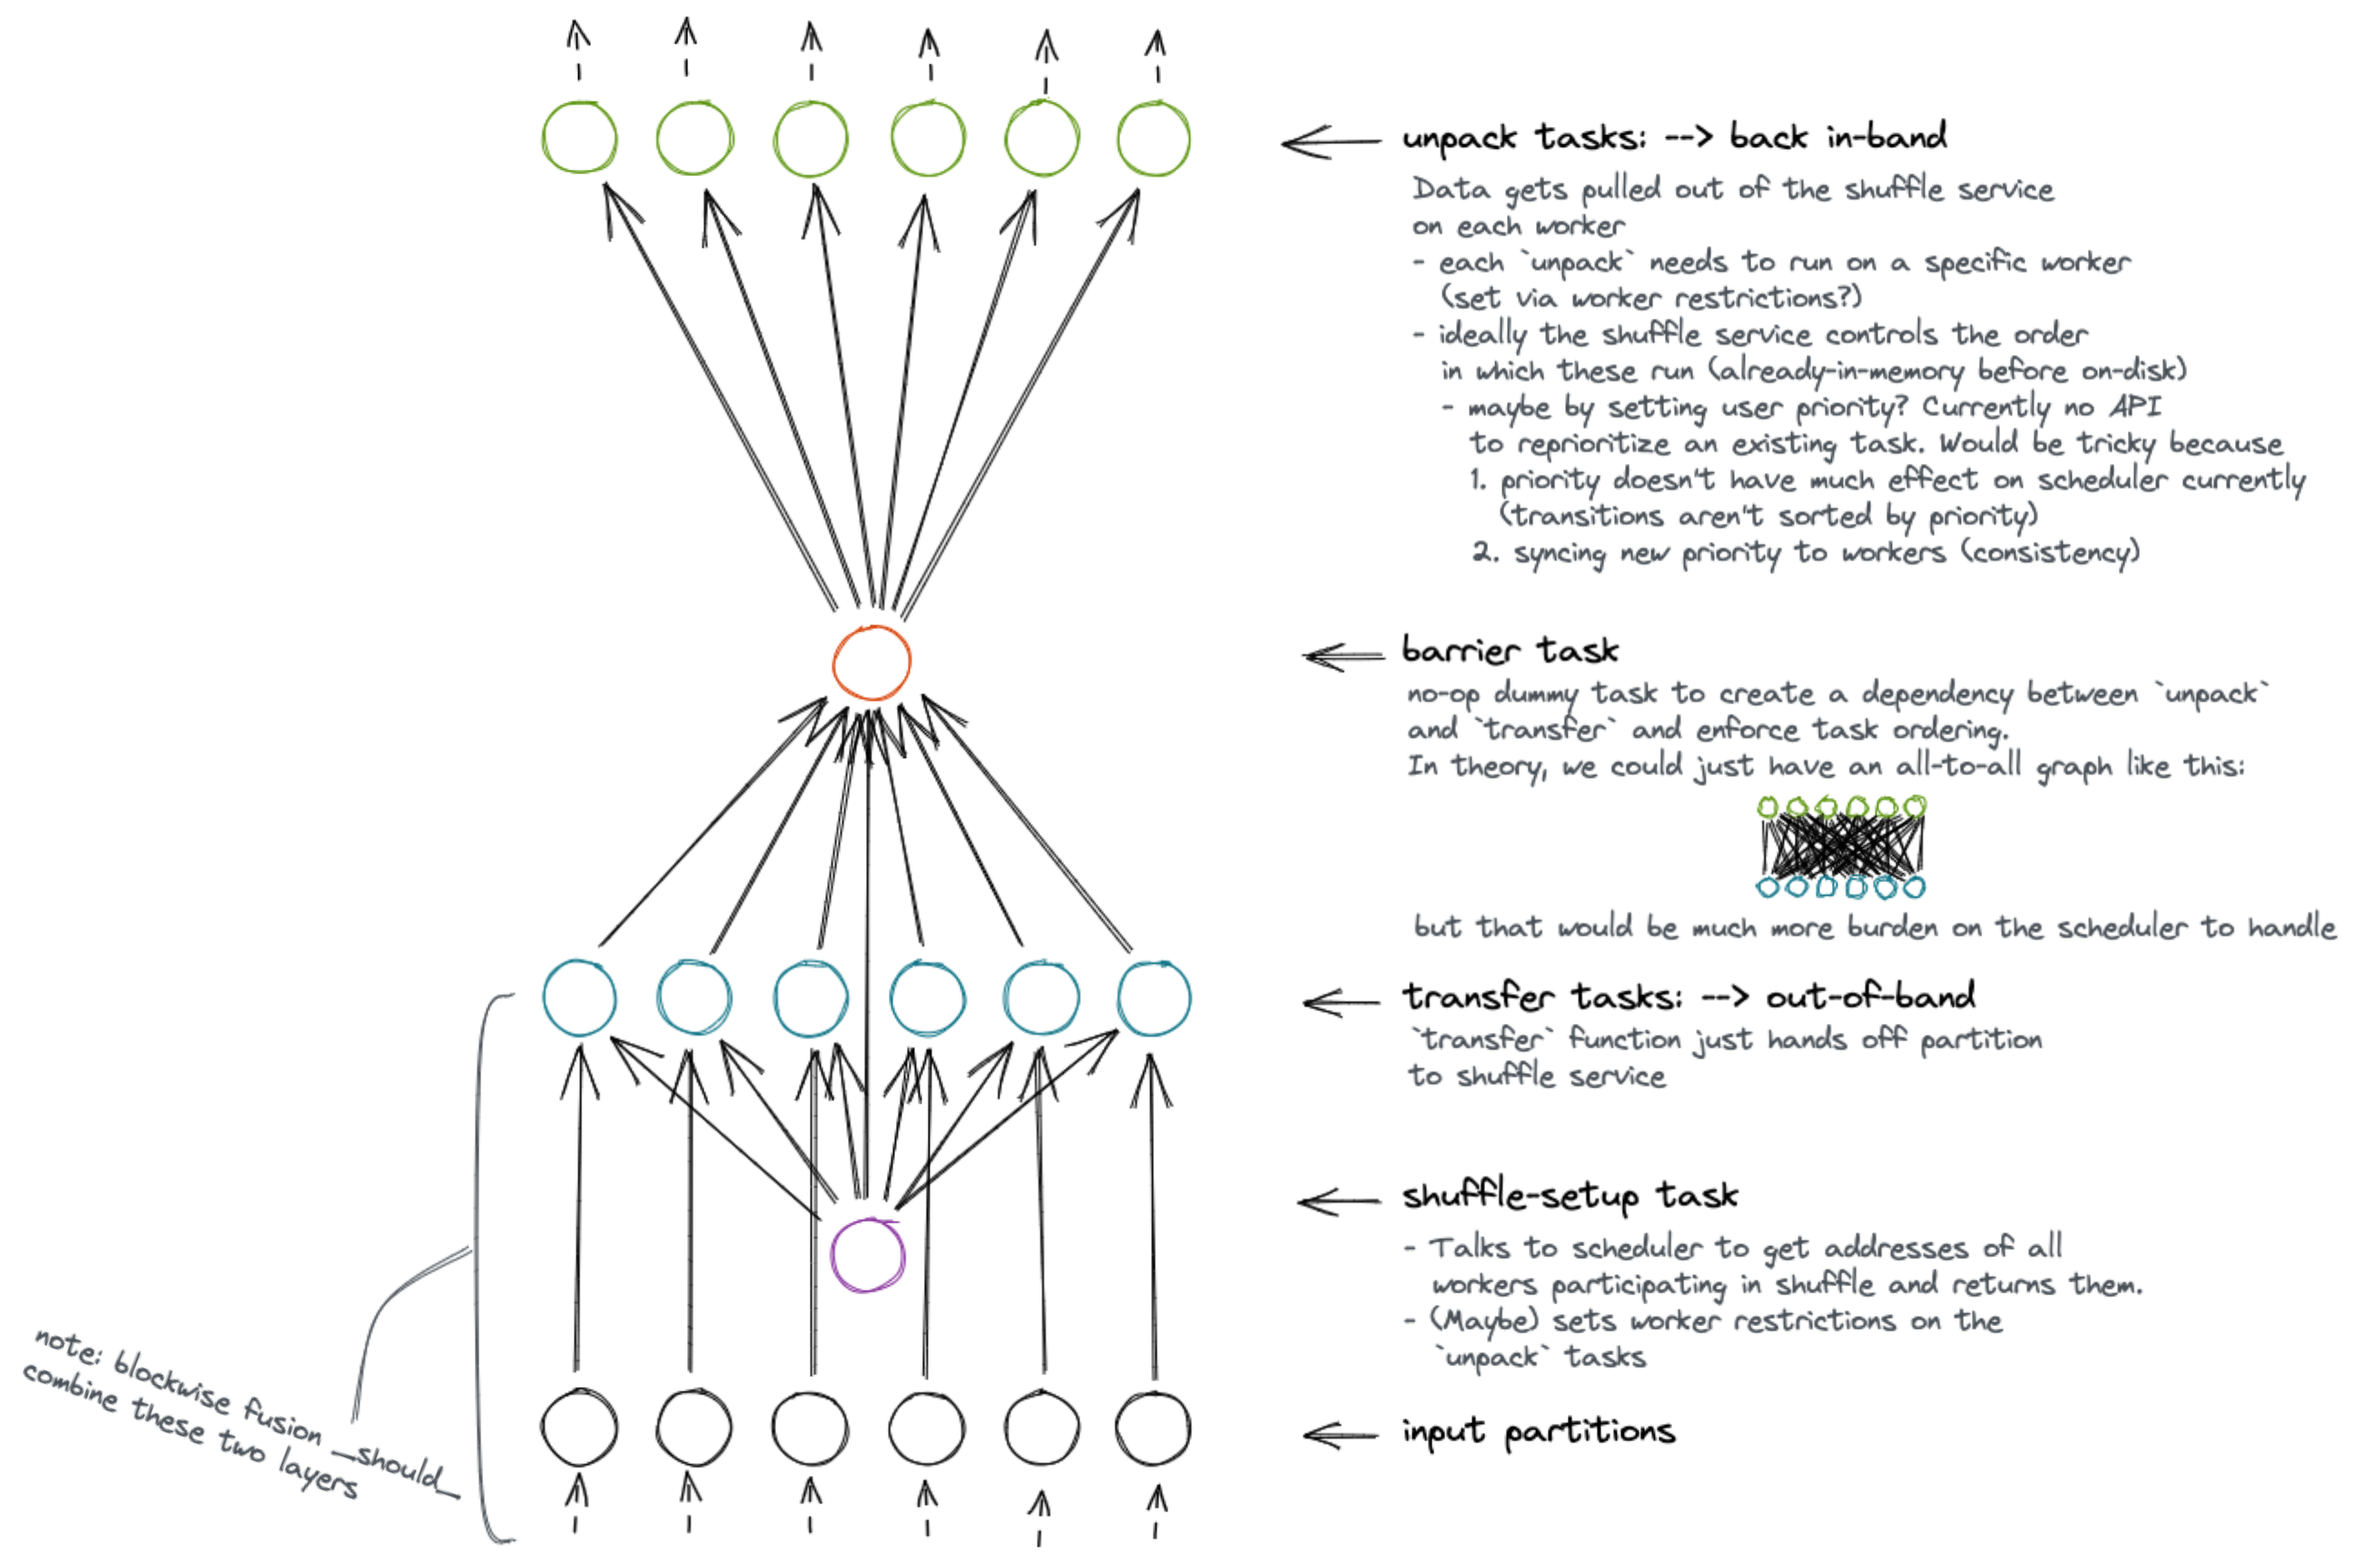
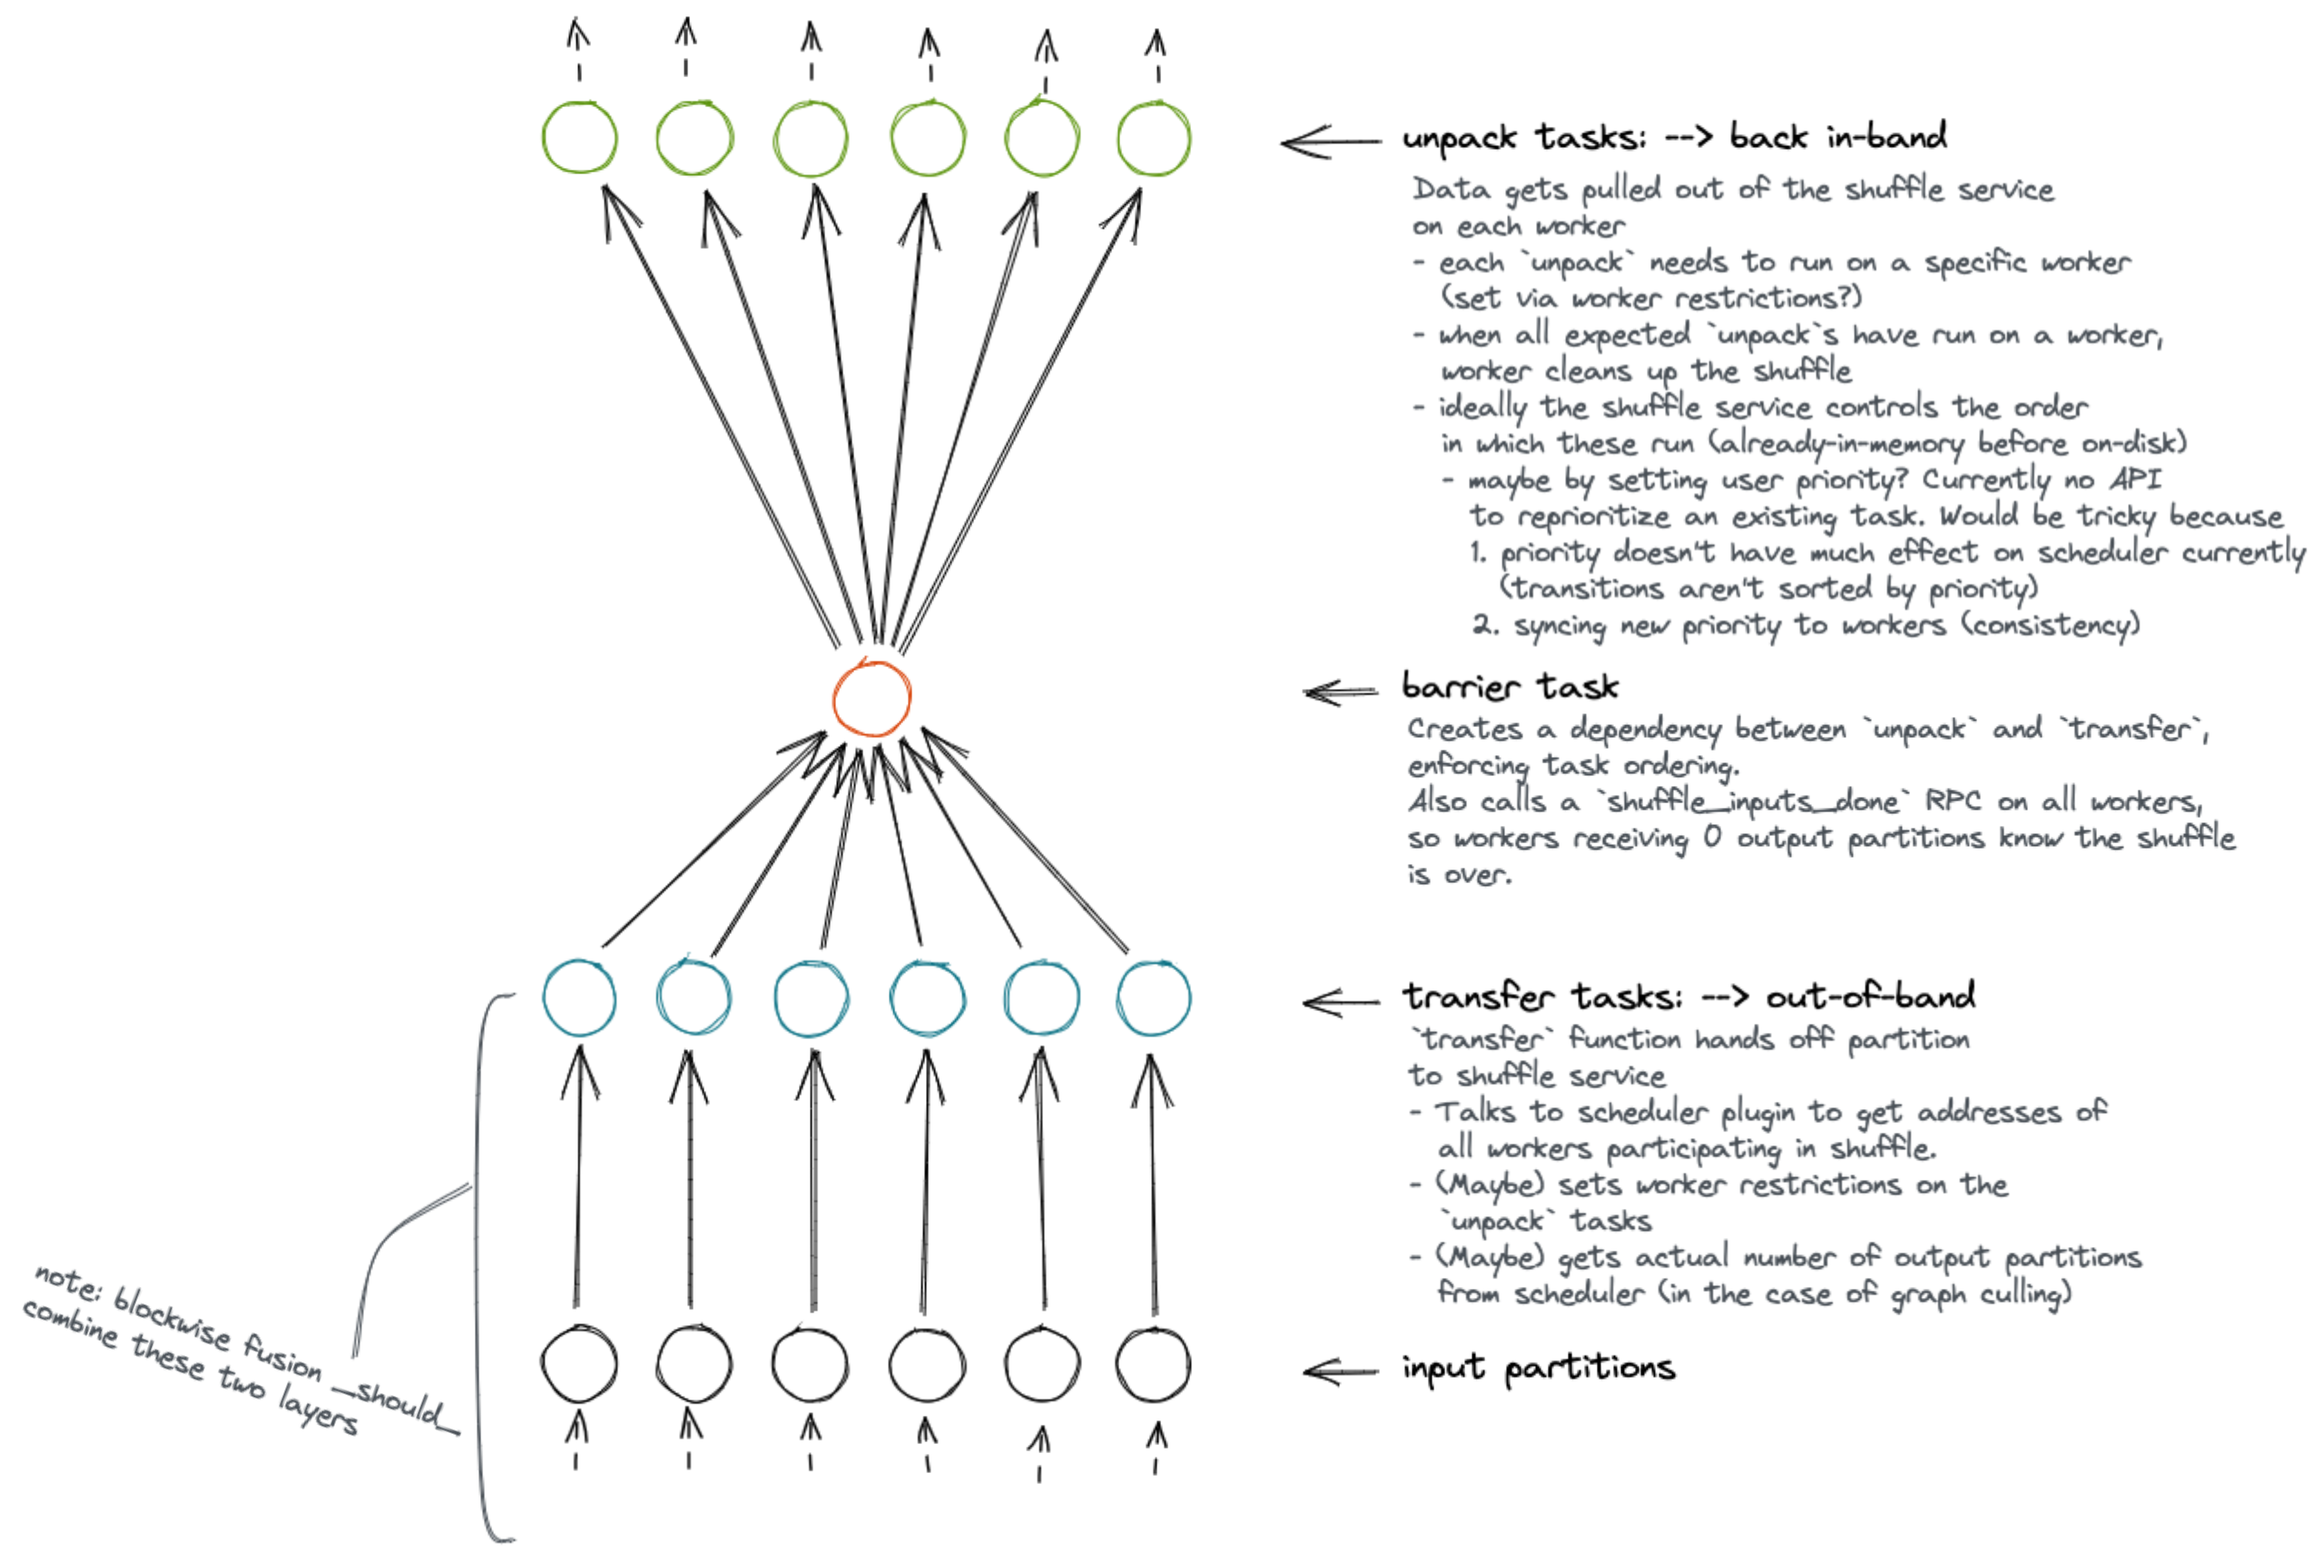
Scheduler extension and graph culling sections
Incorporating discussion from https://github.com/dask/distributed/pull/5435#discussion_r747929304 and https://github.com/dask/distributed/pull/5435#discussion_r747939348

Changed region(s): [[0.0, 0.0, 1.0, 0.9855], [0.2812, 0.0, 0.3125, 0.0308], [0.2188, 0.0, 0.25, 0.0308]]

diff --git a/distributed/shuffle/shuffle-design.md b/distributed/shuffle/shuffle-design.md
@@ -33,6 +33,7 @@ The implementation will be completed in multiple stages (order TBD after #1):
 1. Establish the patterns for how this out-of-band system will interact with distributed, in the simplest possible implementation with no optimizations.
 1. Retries (shuffle restarts automatically if a worker leaves)
 1. Serialization
+1. Graph-culling optimization
 1. Improve performance with concurrency and buffering if possible
 1. Spill-to-disk
 1. Backpressure
@@ -52,7 +53,7 @@ Therefore, the primary purpose of the graph is to mediate between dask-managed d
 - Bring data produced out-of-band back into dask
 - Clean up when keys depending on the shuffle are cancelled
 
-The graph also has a secondary synchronization benefit, letting us bypass some difficult distributed problems (exactly-once initialization and cleanup tasks, determining when all peer-to-peer transfers are complete) by leaning on the scheduler.
+<!-- The graph also has a secondary synchronization benefit, letting us bypass some difficult distributed problems (exactly-once initialization and cleanup tasks, determining when all peer-to-peer transfers are complete) by leaning on the scheduler. -->
 
 ![diagram of graph](graph.png)
 
@@ -65,13 +66,33 @@ Problems this solves:
 * Coordinating multiple concurrent shuffles which may need to share limited resources (memory, threads, etc.)
 * Getting metrics back to the scheduler/dashboard, like managed memory & bytes spilled to disk (eventually)
 
-The `ShuffleExtension` will be built into distributed and added to workers automatically (like the `PubSubWorkerExtension`). It'll add a route to the worker; something like:
+The `ShuffleExtension` will be built into distributed and added to workers automatically (like the `PubSubWorkerExtension`). It'll add some routes to the worker; something like:
 
 ```python
-def shuffle_receive(comm, shuffle_id: str, data: DataFrame) -> None:
+def shuffle_receive(comm, shuffle_id: ShuffleId, data: DataFrame) -> None:
     """
-    Receive an incoming shard of data from a peer worker.
+    Handler: Receive an incoming shard of data from a peer worker.
     Using an unknown ``shuffle_id`` will first initialize any state needed for that new shuffle.
+    """
+    ...
+```
+
+It'll also expose functions to be called from tasks in the graph:
+```python
+async def add_partition(self, data: pd.DataFrame, shuffle_id: ShuffleId) -> None:
+    """
+    Task: Hand off an input partition to the ShuffleExtension.
+
+    This will block until the extension is ready to receive another input partition.
+    Using an unknown ``shuffle_id`` is an error.
+    """
+    ...
+
+async def get_output_partition(self, shuffle_id: ShuffleId, output_partition: int) -> pd.DataFrame:
+    """
+    Task: Retrieve a shuffled output partition from the ShuffleExtension.
+
+    Calling this for a ``shuffle_id`` which is unknown or incomplete is an error.
     """
     ...
 ```
@@ -88,11 +109,42 @@ Most of the implementation-specific logic will happen in the `ShuffleExtension`.
 
 The `transfer` tasks will pass their input partitions into the `ShuffleExtension`, blocking the task until the extension is ready to receive another input. Internally, the extension will do whatever it needs to do to transfer the data, using worker comms to call the `shuffle_receive` RPC on peer workers. Simultaneously, it'll handle any incoming data from other workers.
 
+### Scheduler Shuffle Extension
+
+Problems this solves:
+* Workers need to all have the same list of peers participating in the shuffle (otherwise data could end up in two different places!)
+* Scheduler needs to know where to run the `unpack` tasks which bring data back in-band
+
+A `ShuffleSchedulerPlugin` will also be built into distributed and added to the scheduler automatically. It'll add a handler to the scheduler, like:
+
+```python
+def get_workers_for_shuffle(self, com, id: ShuffleId) -> list[str]:
+    """
+    Get the list of worker addresses participating in a shuffle.
+    Using an unknown ``id`` registers the shuffle and initializes the list of workers.
+    All subsequent requests for the same ``id`` will return the same list.
+    """
+    ...
+```
+
+In the initial `transfer` tasks, each worker will call the `get_workers_for_shuffle` RPC on the scheduler. By centralizing this state on the scheduler, we can ensure each worker gets a consistent list of peers. Then the scheduler will watch transitions to determine when the shuffle is over and it can release this stored state.
+
+*Rejected alternative: a single `shuffle_setup` task.*
+Originally, we considered using a singular setup task in each shuffle's graph, which all the `transfer` tasks depended on. This task used `Client.scheduler_info()` to get the list of peers, with no scheduler plugin. This worked, with the problem that in a graph with multiple shuffles, all the setup tasks would run at the same time at the very beginning of the computation (since they had no dependencies, the scheduler would schedule them immediately). This was not ideal, since the list of workers could be quite outdated by the time the shuffle actually ran.
+
+The scheduler extension will probably take on more responsibilities in later stages of this shuffle implementation. For example, it might:
+* Set worker restrictions for output tasks (instead of doing this from workers via RPC in the barrier task)
+* Call an RPC on all workers that a shuffle is starting, so they can set up any necessary state (threads, etc.)
+* Skip the `RerunGroup` idea (described below) entirely; do it all in the plugin with a callback for remove_worker
+* Tell workers how many output tasks are actually in the graph, resolving the graph-culling issue (mentioned later)
+
 ### Retries and cancellation
 
 Problems this solves:
 * Causing all tasks in the shuffle to rerun when a worker leaves
 * Cleaning up out-of-band state when a user cancels a shuffle, or it errors
+
+*Note: this proposed system may not actually be sufficient, or may be so tuned to shuffling that it doesn't make sense as a public API. We may instead implement something like this just within the scheduler shuffle plugin.*
 
 Because most the tasks in the shuffle graph are impure and run for their side effects, restarting an in-progress shuffle requires rerunning _every_ task involved, even ones that appear to have successfully transitioned to `memory` and whose "results" are stored on non-yet-dead workers.
 
@@ -106,23 +158,35 @@ Additionally, the scheduler informs workers whenever a `RerunGroup` is restarted
 - Workers have a named `threading.Event` for each `RerunGroup` that any of their current tasks belong to. When the scheduler tells workers about a restart/cancellation, they `set()` the corresponding event so that some background thread can respond accordingly.
 - A `register_cancellation_handler(rerun_group: str, async_callback: Callable)` method on workers that registers an async function to be run when that group is cancelled/restarted. A potential upside (and potential deadlock) is that the scheduler's `cancel_rerun_group` RPC to workers could block on this callback completing, meaning the scheduler wouldn't treat the `RerunGroup` as successfully cancelled until every callback on every worker succeeded. That could give us some nice synchronization guarantees (which we may or many not actually need) ensuring a shuffle doesn't try to restart while it's also trying to shut down.
 
-### Peer discovery and initialization
+### Graph-rewrite on cull
 
 Problems this solves:
-* Workers need to all have the same list of peers participating in the shuffle (otherwise data could end up in two different places!)
-* Scheduler needs to be told where to run the `unpack` tasks which bring data back in-band
+* When only some output partitions of a shuffle are needed in downstream tasks, the shuffle still needs to behave correctly
+* In this case, the shuffle can also transfer less data as an optimization
+* Two shuffles of the same input—just with different output partitions culled—must produce correct data and not collide in key names
 
-We'll run a single `shuffle-setup` task before all the transfers to do some initialization.
+With code like `df2 = df.set_index("name").loc["Alice":"Bob"]`, graph culling removes the `shuffle_unpack` tasks for unused output partitions:
 
-First, it will ask the scheduler for the addresses of all workers that should participate in the shuffle (taking into account worker or resource restrictions). How this will be implemented is TBD.
+![culled shuffle graph](cull.png)
 
-Next, it will set worker restrictions on the `unpack` tasks, so each task will run on the worker that will receive that output partition. (This is computed just by binning the number of output partitions into the number of workers.) Note that we could also do this step in the barrier task; just seems nicer and potentially a tiny bit less overhead to do all scheduler comms in one place.
+In order to determine when the shuffle is over, each worker will depend on comparing how many times `get_output_partition` was called to how many output partitions belong on that worker. Because output partitions could be empty, it's not enough to just count how many partitions data was received for—the shuffle has to know this count ahead of time.
 
-It'll return the list of worker addresses. This will be input to all the `transfer` tasks, which use the same binning logic to decide where to send a given row of each input partition.
+If not all of the output partitions are actually retrieved (because the tasks to retrieve them were culled), the extension will never clean up, and all that extra data will just sit on the worker forever.
 
-Since this `shuffle-setup` task will be part of the `RerunGroup`, every time the shuffle is restarted, we'll recompute these peer addresses (accounting for any lost or gained workers) and reset any now-invalid worker restrictions on the `unpack` tasks (preventing deadlocks from waiting to schedule a task on a worker that doesn't exist).
+Additionally, we have an optimization opportunity: if we only need output partitions 1-3, then the extension can drop all input rows that don't match, vastly reducing the amount of data transferred.
 
-Also possibly (TBD) `shuffle-setup` could call an RPC on all the other workers informing them that a shuffle is about to happen. This is most likely unnecessary, but in case there are some resources that need to be initialized before any data moves around, this would give us an easy way to do it.
+Therefore, we propose adding another graph optimization step: after culling, we'll also inject the list of post-culling output partitions into the initial `transfer` tasks. Additionally, we'll need to change the keys of these `transfer` and `barrier` tasks, because they now produce different data.
+
+It's critical to change the keys, so that workloads like this behave correctly:
+```python
+shuffled = df.set_index("name")
+s1 = shuffled.loc["Alice":"Bob"].persist()
+sleep(10)
+s2 = shuffled.persist()
+```
+If there are some `transfer` tasks for `s1` running when `s2` gets submitted, the scheduler wouldn't run `s2`'s `transfer`s if they had the same keys as `s1`'s—it would just reuse `s1`s. However, those transfers would be doing something different (sending only some data vs all data).
+
+*Note: it's possible to make this situation behave correctly without a new graph optimization, by sending all data (even for unneeded partitions) and having the scheduler plugin tell workers at runtime via RPC when the shuffle is over. We'll do this in the initial implementation for simplicity, but expect the optimization to be quite valuable to users.*
 
 ### Spilling to disk
 
